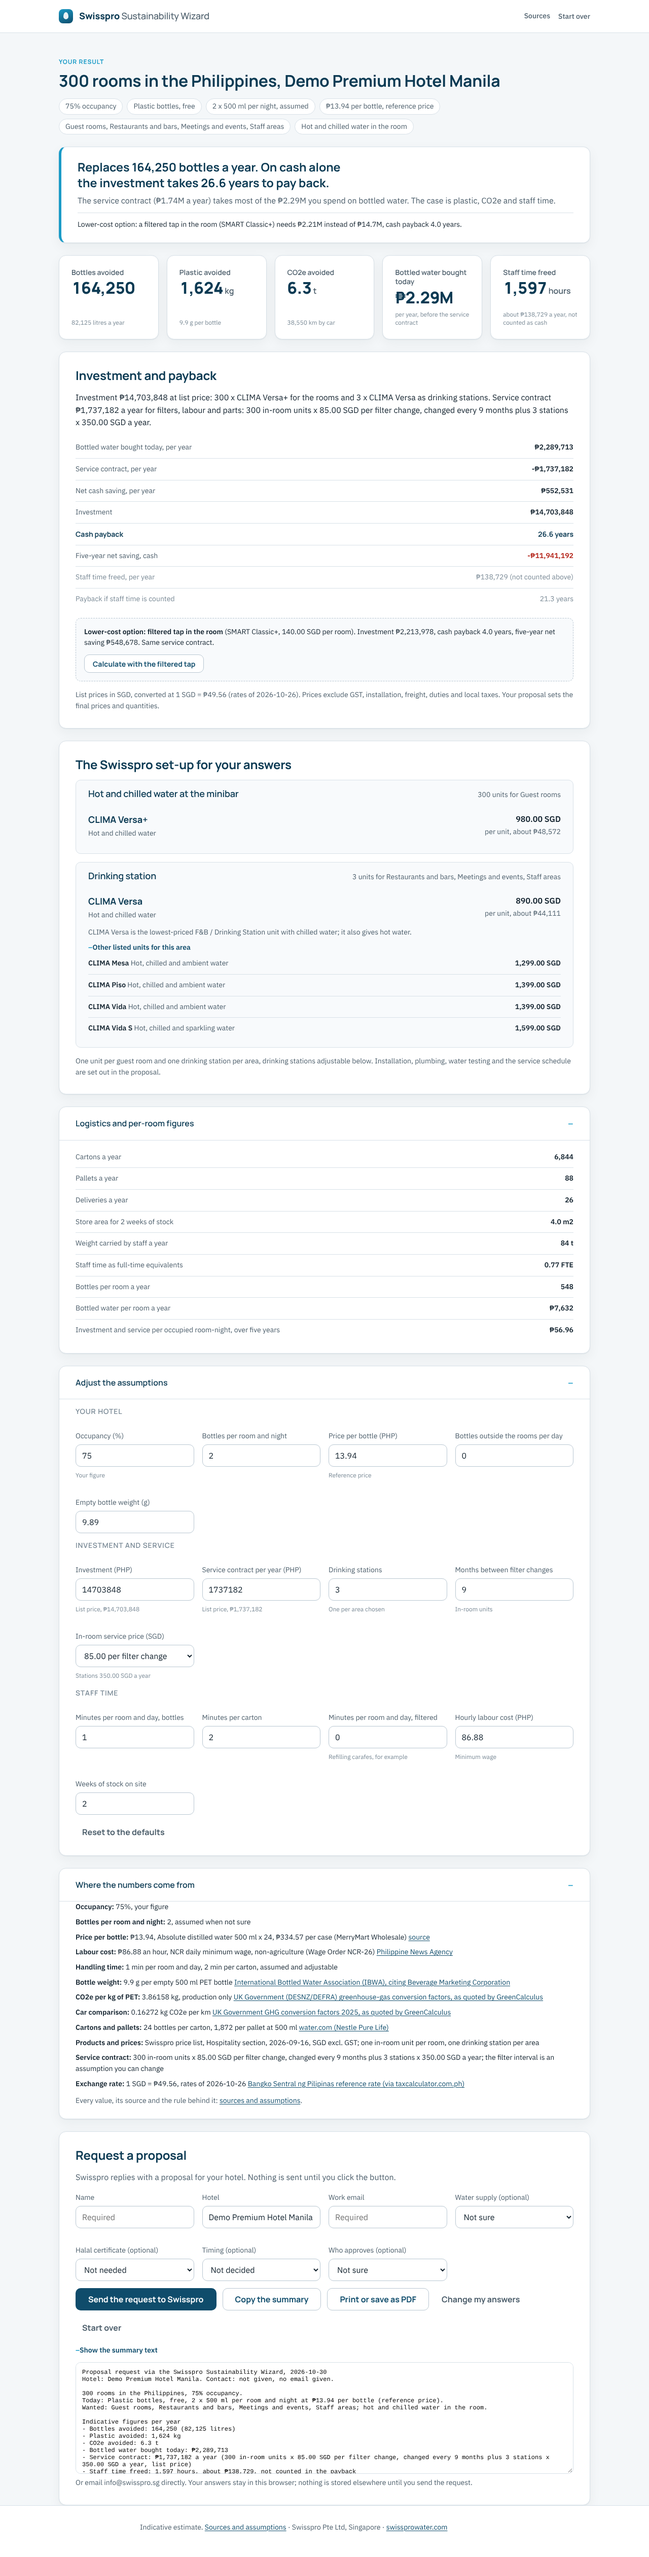
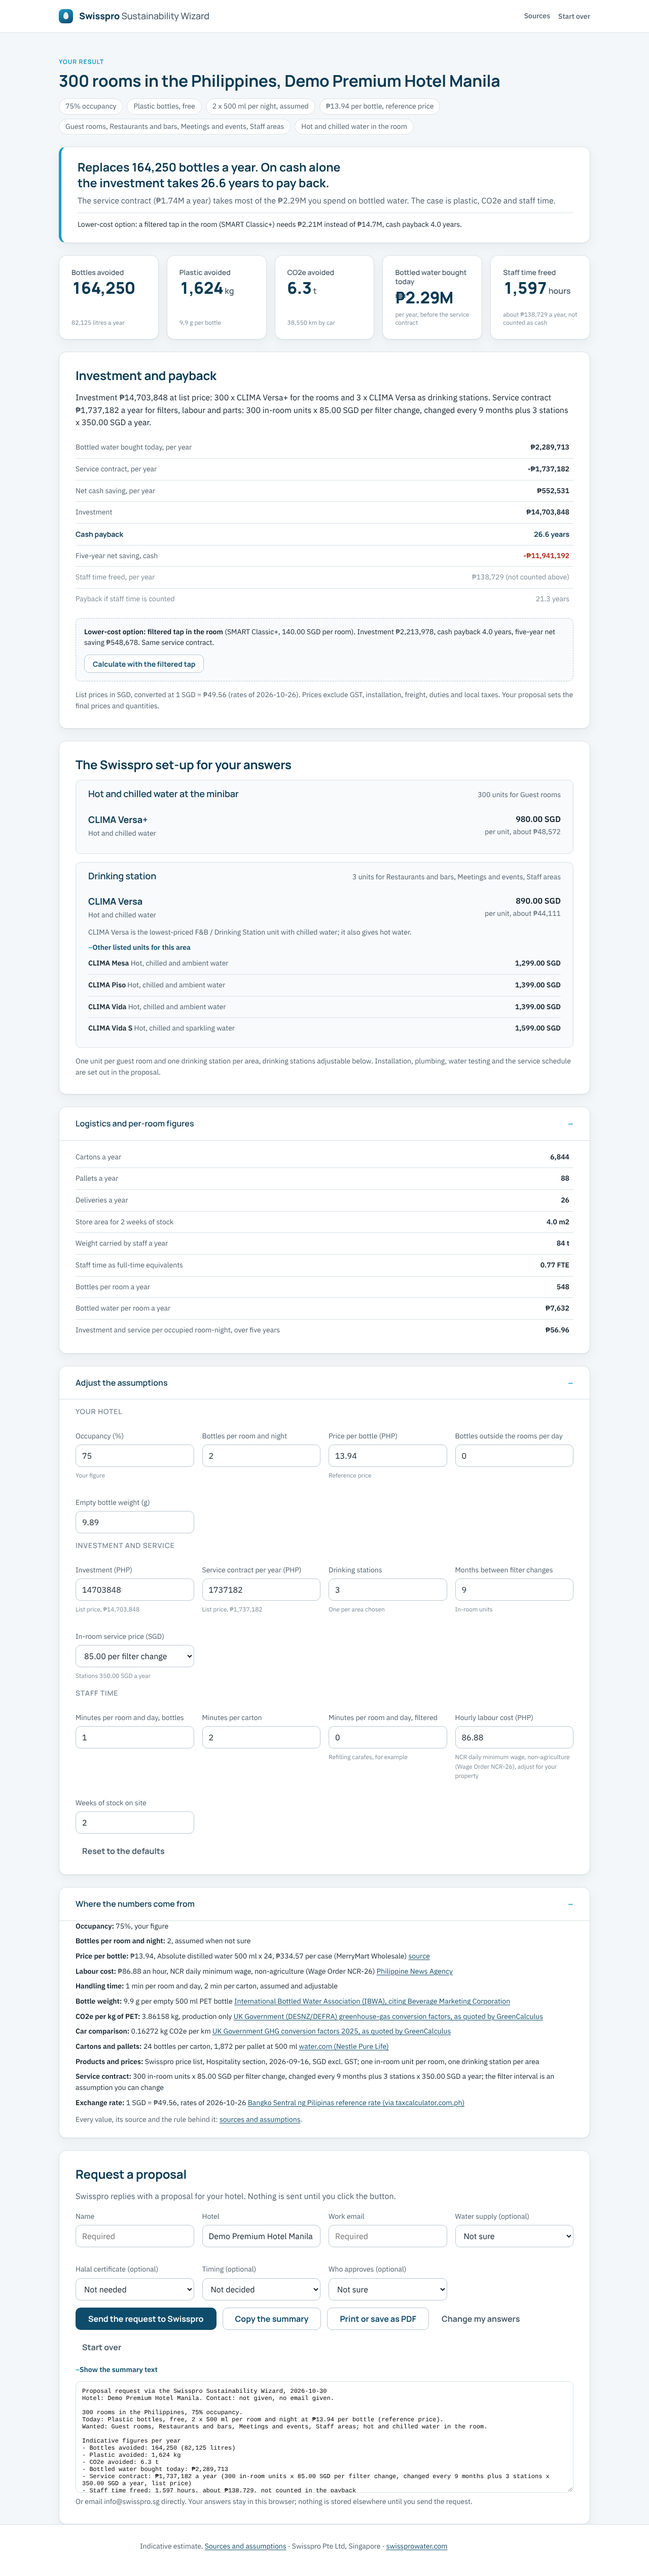
Wage hint names the reference and asks to adjust; sources page number formatting
Claude-Session: https://claude.ai/code/session_01APodsUFWSb661S1TCdvVpy

diff --git a/artifact/sources.html b/artifact/sources.html
@@ -236,7 +236,7 @@ details.fine summary { font-weight: 600; }
 .factor .val { font-weight: 600; color: var(--brand-700); font-variant-numeric: tabular-nums; }
 .factor blockquote { margin: var(--s-2) 0; padding-left: var(--s-3); border-left: 3px solid var(--accent-200); color: var(--ink-2); font-size: var(--fs-sm); }
 .factor p { margin-top: var(--s-2); }
-.card table.kv th, .card table.kv td { font-size: var(--fs-sm); white-space: normal; }
+.card table.kv th, .card table.kv td { font-size: var(--fs-sm); white-space: normal; padding-right: 8px; }
 
 /* phone */
 @media (max-width: 640px) {
@@ -466,7 +466,7 @@ details.fine summary { font-weight: 600; }
     function esc(s) { return String(s == null ? '' : s).replace(/[&<>"]/g, function (c) { return { '&': '&amp;', '<': '&lt;', '>': '&gt;', '"': '&quot;' }[c]; }); }
     function kindWord(f) { return f.kind === 'assumption' ? 'Assumption, adjustable' : (f.kind === 'derived' ? 'Derived' : (f.kind === 'constant' ? 'Constant' : 'Reference value')); }
     function src(s) { if (!s) return ''; return '<p class="small muted">' + esc(s.publisher || '') + (s.title ? ', ' + esc(s.title) : '') + (s.year ? ' (' + esc(s.year) + ')' : '') + (s.url ? '. <a href="' + esc(s.url) + '" rel="noopener">Open the source</a>' : '') + '</p>'; }
-    function val(v, unit) { if (typeof v === 'number') return (Math.abs(v) < 1 && v !== 0 ? v.toPrecision(4) : (Math.round(v * 1000) / 1000).toLocaleString('en-US')) + ' ' + esc(unit || ''); return esc(v) + ' ' + esc(unit || ''); }
+    function val(v, unit) { if (typeof v === 'number') return (Math.abs(v) < 1 && v !== 0 ? String(Number(v.toPrecision(4))) : (Math.round(v * 1000) / 1000).toLocaleString('en-US')) + ' ' + esc(unit || ''); return esc(v) + ' ' + esc(unit || ''); }
     var PUBLIC_NOTES = {
       co2e_kg_per_kg_pet: 'Production of the plastic only; transport, chilling and disposal of the bottles and the electricity of the filtration unit are not included.',
       pet_bottle_weight_500ml_g: 'Industry average for a light bottle; many bottles sold in South-East Asia weigh more, so the plastic figure is conservative.',
@@ -533,7 +533,7 @@ details.fine summary { font-weight: 600; }
     function esc(s) { return String(s == null ? '' : s).replace(/[&<>"]/g, function (c) { return { '&': '&amp;', '<': '&lt;', '>': '&gt;', '"': '&quot;' }[c]; }); }
     function kindWord(f) { return f.kind === 'assumption' ? 'Assumption, adjustable' : (f.kind === 'derived' ? 'Derived' : (f.kind === 'constant' ? 'Constant' : 'Reference value')); }
     function src(s) { if (!s) return ''; return '<p class="small muted">' + esc(s.publisher || '') + (s.title ? ', ' + esc(s.title) : '') + (s.year ? ' (' + esc(s.year) + ')' : '') + (s.url ? '. <a href="' + esc(s.url) + '" rel="noopener">Open the source</a>' : '') + '</p>'; }
-    function val(v, unit) { if (typeof v === 'number') return (Math.abs(v) < 1 && v !== 0 ? v.toPrecision(4) : (Math.round(v * 1000) / 1000).toLocaleString('en-US')) + ' ' + esc(unit || ''); return esc(v) + ' ' + esc(unit || ''); }
+    function val(v, unit) { if (typeof v === 'number') return (Math.abs(v) < 1 && v !== 0 ? String(Number(v.toPrecision(4))) : (Math.round(v * 1000) / 1000).toLocaleString('en-US')) + ' ' + esc(unit || ''); return esc(v) + ' ' + esc(unit || ''); }
     var PUBLIC_NOTES = {
       co2e_kg_per_kg_pet: 'Production of the plastic only; transport, chilling and disposal of the bottles and the electricity of the filtration unit are not included.',
       pet_bottle_weight_500ml_g: 'Industry average for a light bottle; many bottles sold in South-East Asia weigh more, so the plastic figure is conservative.',
@@ -703,7 +703,7 @@ details.fine summary { font-weight: 600; }
     function esc(s) { return String(s == null ? '' : s).replace(/[&<>"]/g, function (c) { return { '&': '&amp;', '<': '&lt;', '>': '&gt;', '"': '&quot;' }[c]; }); }
     function kindWord(f) { return f.kind === 'assumption' ? 'Assumption, adjustable' : (f.kind === 'derived' ? 'Derived' : (f.kind === 'constant' ? 'Constant' : 'Reference value')); }
     function src(s) { if (!s) return ''; return '<p class="small muted">' + esc(s.publisher || '') + (s.title ? ', ' + esc(s.title) : '') + (s.year ? ' (' + esc(s.year) + ')' : '') + (s.url ? '. <a href="' + esc(s.url) + '" rel="noopener">Open the source</a>' : '') + '</p>'; }
-    function val(v, unit) { if (typeof v === 'number') return (Math.abs(v) < 1 && v !== 0 ? v.toPrecision(4) : (Math.round(v * 1000) / 1000).toLocaleString('en-US')) + ' ' + esc(unit || ''); return esc(v) + ' ' + esc(unit || ''); }
+    function val(v, unit) { if (typeof v === 'number') return (Math.abs(v) < 1 && v !== 0 ? String(Number(v.toPrecision(4))) : (Math.round(v * 1000) / 1000).toLocaleString('en-US')) + ' ' + esc(unit || ''); return esc(v) + ' ' + esc(unit || ''); }
     var PUBLIC_NOTES = {
       co2e_kg_per_kg_pet: 'Production of the plastic only; transport, chilling and disposal of the bottles and the electricity of the filtration unit are not included.',
       pet_bottle_weight_500ml_g: 'Industry average for a light bottle; many bottles sold in South-East Asia weigh more, so the plastic figure is conservative.',

diff --git a/artifact/wizard.html b/artifact/wizard.html
@@ -232,7 +232,7 @@ details.fine summary { font-weight: 600; }
 .factor .val { font-weight: 600; color: var(--brand-700); font-variant-numeric: tabular-nums; }
 .factor blockquote { margin: var(--s-2) 0; padding-left: var(--s-3); border-left: 3px solid var(--accent-200); color: var(--ink-2); font-size: var(--fs-sm); }
 .factor p { margin-top: var(--s-2); }
-.card table.kv th, .card table.kv td { font-size: var(--fs-sm); white-space: normal; }
+.card table.kv th, .card table.kv td { font-size: var(--fs-sm); white-space: normal; padding-right: 8px; }
 
 /* phone */
 @media (max-width: 640px) {
@@ -1512,7 +1512,7 @@ details.fine summary { font-weight: 600; }
     field(g3, 'minutesPerRoomPerDay', 'Minutes per room and day, bottles', inp.minutesPerRoomPerDay, 0.5);
     field(g3, 'minutesPerCarton', 'Minutes per carton', inp.minutesPerCarton, 0.5);
     field(g3, 'newMinutesPerRoomPerDay', 'Minutes per room and day, filtered', inp.newMinutesPerRoomPerDay, 0.5, null, 'Refilling carafes, for example');
-    field(g3, 'wageHourly', 'Hourly labour cost (' + inp.currency + ')', Math.round(inp.wageHourly * 100) / 100, 0.1, null, ctx.n.provenance.wageHourly.kind === 'user' ? 'Your figure' : 'Minimum wage');
+    field(g3, 'wageHourly', 'Hourly labour cost (' + inp.currency + ')', Math.round(inp.wageHourly * 100) / 100, 0.1, null, ctx.n.provenance.wageHourly.kind === 'user' ? 'Your figure' : (ctx.n.country.wageMonthly.label || 'Minimum wage') + ', adjust for your property');
     field(g3, 'stockWeeks', 'Weeks of stock on site', inp.stockWeeks, 1);
     card.appendChild(el('div', { class: 'actions' }, el('button', { type: 'button', class: 'btn btn-ghost', onclick: function () { state.overrides = {}; save(); renderResults(); } }, 'Reset to the defaults')));
     return card;

diff --git a/sources.html b/sources.html
@@ -33,7 +33,7 @@
     function esc(s) { return String(s == null ? '' : s).replace(/[&<>"]/g, function (c) { return { '&': '&amp;', '<': '&lt;', '>': '&gt;', '"': '&quot;' }[c]; }); }
     function kindWord(f) { return f.kind === 'assumption' ? 'Assumption, adjustable' : (f.kind === 'derived' ? 'Derived' : (f.kind === 'constant' ? 'Constant' : 'Reference value')); }
     function src(s) { if (!s) return ''; return '<p class="small muted">' + esc(s.publisher || '') + (s.title ? ', ' + esc(s.title) : '') + (s.year ? ' (' + esc(s.year) + ')' : '') + (s.url ? '. <a href="' + esc(s.url) + '" rel="noopener">Open the source</a>' : '') + '</p>'; }
-    function val(v, unit) { if (typeof v === 'number') return (Math.abs(v) < 1 && v !== 0 ? v.toPrecision(4) : (Math.round(v * 1000) / 1000).toLocaleString('en-US')) + ' ' + esc(unit || ''); return esc(v) + ' ' + esc(unit || ''); }
+    function val(v, unit) { if (typeof v === 'number') return (Math.abs(v) < 1 && v !== 0 ? String(Number(v.toPrecision(4))) : (Math.round(v * 1000) / 1000).toLocaleString('en-US')) + ' ' + esc(unit || ''); return esc(v) + ' ' + esc(unit || ''); }
     var PUBLIC_NOTES = {
       co2e_kg_per_kg_pet: 'Production of the plastic only; transport, chilling and disposal of the bottles and the electricity of the filtration unit are not included.',
       pet_bottle_weight_500ml_g: 'Industry average for a light bottle; many bottles sold in South-East Asia weigh more, so the plastic figure is conservative.',

diff --git a/js/app.js b/js/app.js
@@ -444,7 +444,7 @@
     field(g3, 'minutesPerRoomPerDay', 'Minutes per room and day, bottles', inp.minutesPerRoomPerDay, 0.5);
     field(g3, 'minutesPerCarton', 'Minutes per carton', inp.minutesPerCarton, 0.5);
     field(g3, 'newMinutesPerRoomPerDay', 'Minutes per room and day, filtered', inp.newMinutesPerRoomPerDay, 0.5, null, 'Refilling carafes, for example');
-    field(g3, 'wageHourly', 'Hourly labour cost (' + inp.currency + ')', Math.round(inp.wageHourly * 100) / 100, 0.1, null, ctx.n.provenance.wageHourly.kind === 'user' ? 'Your figure' : 'Minimum wage');
+    field(g3, 'wageHourly', 'Hourly labour cost (' + inp.currency + ')', Math.round(inp.wageHourly * 100) / 100, 0.1, null, ctx.n.provenance.wageHourly.kind === 'user' ? 'Your figure' : (ctx.n.country.wageMonthly.label || 'Minimum wage') + ', adjust for your property');
     field(g3, 'stockWeeks', 'Weeks of stock on site', inp.stockWeeks, 1);
     card.appendChild(el('div', { class: 'actions' }, el('button', { type: 'button', class: 'btn btn-ghost', onclick: function () { state.overrides = {}; save(); renderResults(); } }, 'Reset to the defaults')));
     return card;

diff --git a/styles.css b/styles.css
@@ -229,7 +229,7 @@ details.fine summary { font-weight: 600; }
 .factor .val { font-weight: 600; color: var(--brand-700); font-variant-numeric: tabular-nums; }
 .factor blockquote { margin: var(--s-2) 0; padding-left: var(--s-3); border-left: 3px solid var(--accent-200); color: var(--ink-2); font-size: var(--fs-sm); }
 .factor p { margin-top: var(--s-2); }
-.card table.kv th, .card table.kv td { font-size: var(--fs-sm); white-space: normal; }
+.card table.kv th, .card table.kv td { font-size: var(--fs-sm); white-space: normal; padding-right: 8px; }
 
 /* phone */
 @media (max-width: 640px) {
